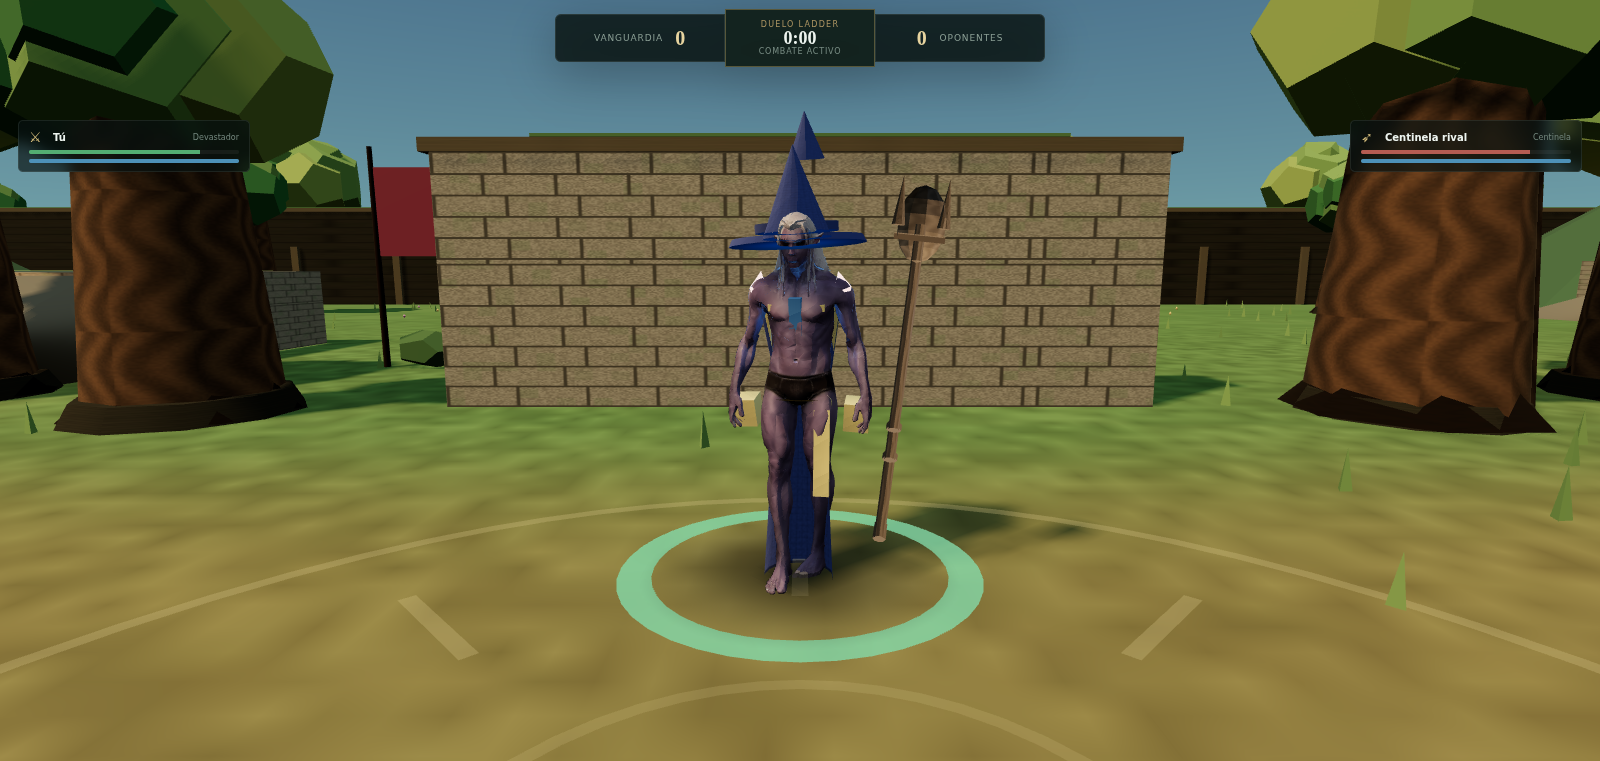
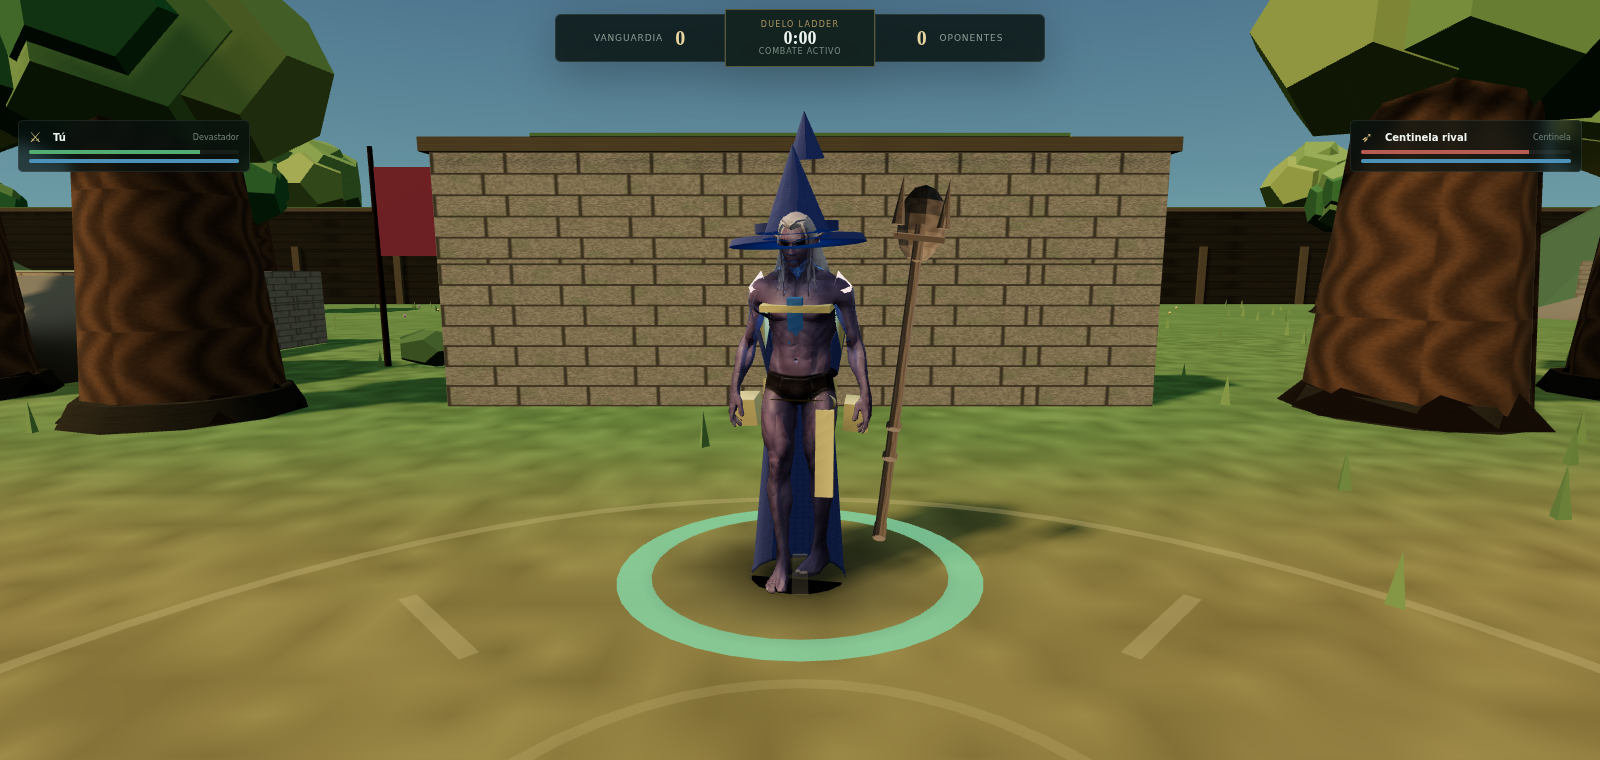
Las seis siluetas encajan en el cuerpo real: la caja lo dijo, la captura no
Cuatro defectos quedaban del pase anterior y los cuatro eran de ESCALA, no
de posición. `tools/scripts/gear-fit.json` compara la caja envolvente de
cada pieza contra la del cuerpo desnudo y los explicó solos:

  coraza Devastador   0.361 × 0.270  →  0.448 × 0.358
  coraza Guardián     0.399 × 0.302  →  0.495 × 0.400
  escudo torre        0.597 × 0.595  →  0.553 × 0.288
  túnica Arcanista    y desde −0.125 →  y desde −0.010,  0.373 → 0.484

El torso del Elfo Oscuro tiene 0.330 de fondo y las corazas venían cosidas
a un maniquí de 0.25: quedaban POR DENTRO del pecho y la piel las
atravesaba. El escudo, con 0.6 de fondo en una plancha plana, estaba
presentando una esquina en vez de la cara. Y la túnica barría por debajo
del suelo.

Ninguno se diagnostica mirando el fotograma: los dos primeros se ven como
«no lleva coraza» y el tercero como «el escudo está torcido». La caja dice
POR QUÉ, y por eso el paso siguiente que se había anotado era medir y no
seguir moviendo números.

`GEAR_FIT` corrige sólo los tres sockets cuyo volumen depende del tronco.
Cascos, botas, rodilleras, bolsas y trampas ya encajaban y no se tocan.

RESULTADO

Las seis clases vuelven a ser seis siluetas sobre el modelo real: el
Guardián como caballero acorazado con escudo torre y faldar, el Arcanista
como mago con sombrero de pico y túnica hasta el suelo, el Devastador con
coraza, hombreras angulosas y espadón.

Queda anotado un hueco de 2 cm de abdomen entre el cuerpo de la túnica y
[…]

diff --git a/js/render/three/threeCharacter.js b/js/render/three/threeCharacter.js
@@ -314,6 +314,25 @@ export function createCharacterFactory(Arena, scene, opts) {
     handR:     [0, -0.071, 0]
   };
 
+  /* AJUSTE AL VOLUMEN DEL CUERPO REAL
+   *
+   * El maniquí procedural tenía una caja torácica de 0.40 de ancho y 0.25 de
+   * fondo. El Elfo Oscuro tiene el torso en 0.45 × 0.33. Una coraza cosida a la
+   * medida del maniquí queda POR DENTRO del pecho del modelo: se ve la piel
+   * atravesándola y la pieza no aporta silueta.
+   *
+   * Medido con `tools/scripts/gear-fit.json`, que compara la caja de cada pieza
+   * contra la del cuerpo desnudo. El síntoma —«la coraza no cubre el pecho»— es
+   * de ESCALA, no de posición, y una caja lo dice y una captura no.
+   *
+   * Sólo se corrigen los sockets cuyo volumen depende del tronco. Cascos,
+   * botas, rodilleras y bolsas ya encajaban. */
+  var GEAR_FIT = {
+    chest:     [1.24, 1.00, 1.34],
+    chestPair: [1.10, 1.00, 1.14],
+    hips:      [1.14, 1.00, 1.20]
+  };
+
   var _gq = new THREE.Quaternion(), _ge = new THREE.Euler(), _gv = new THREE.Vector3();
 
   /**
@@ -520,7 +539,7 @@ export function createCharacterFactory(Arena, scene, opts) {
     };
     var self = this;
 
-    function pieza(meshName, boneName, anchor, pos, rot, scale, colorName, glow) {
+    function pieza(meshName, boneName, anchor, pos, rot, scale, colorName, glow, fit) {
       var geo = geometries[meshName];
       var bone = self.rigBones[boneName];
       if (!geo || !bone) return null;
@@ -533,8 +552,9 @@ export function createCharacterFactory(Arena, scene, opts) {
       m.name = 'gear:' + meshName;
       bone.add(m);
       var sc = scale === undefined ? 1 : scale;
-      if (typeof sc === 'number') m.scale.setScalar(sc);
-      else m.scale.set(sc[0], sc[1], sc[2]);
+      var f = fit || [1, 1, 1];
+      if (typeof sc === 'number') m.scale.set(sc * f[0], sc * f[1], sc * f[2]);
+      else m.scale.set(sc[0] * f[0], sc[1] * f[1], sc[2] * f[2]);
       self.gear.push(m);
       return m;
     }
@@ -555,7 +575,7 @@ export function createCharacterFactory(Arena, scene, opts) {
           var boneName = mapa.pair && mapa.boneL
             ? (side < 0 ? mapa.boneL : mapa.boneR) : mapa.bone;
           var m = pieza(it.mesh, boneName, anchor, it.pos || ZERO, it.rot || ZERO,
-            it.scale, it.color, it.glow);
+            it.scale, it.color, it.glow, GEAR_FIT[socket]);
           if (m) gearPlace(m, this.rigBindWorldQuat[boneName], anchor,
             it.pos || ZERO, it.rot || ZERO, side);
         }
@@ -564,8 +584,12 @@ export function createCharacterFactory(Arena, scene, opts) {
 
     /* La túnica cuelga de la cadera: es la pieza que más define a los dos
        casters y sin ella el mago va en ropa interior con un báculo. */
+    /* La túnica del Arcanista bajaba a −0.125: barría por debajo del suelo, y
+       encima medía 0.373 de ancho sobre unas caderas de 0.45, así que se leía
+       como un panel y no como una campana. Las dos cosas, medidas. */
     if (prof.robe) {
-      var r = pieza(prof.robe.mesh, 'Hips', GEAR_ANCHOR.hips, ZERO, ZERO, 1, prof.robe.color);
+      var r = pieza(prof.robe.mesh, 'Hips', GEAR_ANCHOR.hips, ZERO, ZERO, 1,
+        prof.robe.color, 0, [1.30, 0.90, 1.30]);
       if (r) gearPlace(r, this.rigBindWorldQuat.Hips, GEAR_ANCHOR.hips, [0, 0.06, 0], ZERO, 1);
       if (prof.robe.trim) {
         var rt = pieza(prof.robe.trim, 'Hips', GEAR_ANCHOR.hips, ZERO, ZERO, 1, 'trim');

diff --git a/js/data/classVisuals.js b/js/data/classVisuals.js
@@ -385,7 +385,7 @@ Arena.define('data/classVisuals', ['data/races', 'data/animConfig'], function (A
          quedaba casi horizontal: de frente se veía el canto, y un escudo torre
          visto de canto es un palo. Medido, no supuesto: la anchura de las
          bandas centrales pasa de 0.92 a 1.4. */
-      left: { kind: 'shield', mesh: 'towerShield', pos: [0.02, 0.16, 0.19], rot: [-0.38, 0, -0.07], color: 'teamDark' },
+      left: { kind: 'shield', mesh: 'towerShield', pos: [0.06, 0.14, 0.20], rot: [0.05, 0, -0.04], color: 'teamDark' },
       attach: {
         chest: [
           { mesh: 'bulwarkGorget', pos: [0, 0.292, 0], color: 'metal' },

diff --git a/docs/ANIMATION_INTEGRATION_V016.md b/docs/ANIMATION_INTEGRATION_V016.md
@@ -159,6 +159,29 @@ su hueso `Chest`. Medido con `tools/rig-report.js`, no supuesto. La tabla
 `GEAR_ANCHOR` absorbe esa diferencia para que los números de `classVisuals.js`
 sigan valiendo.
 
+## La caja lo dijo y la captura no
+
+`tools/scripts/gear-fit.json` compara la caja envolvente de **cada pieza de
+equipo** contra la del cuerpo desnudo. Los cuatro defectos que quedaban se
+explicaron solos, y los cuatro eran de **escala, no de posición**:
+
+| Pieza | Antes | Después | Qué pasaba |
+|---|---|---|---|
+| Coraza del Devastador | 0.361 × **0.270** | 0.448 × **0.358** | el torso real tiene 0.330 de fondo: la coraza quedaba POR DENTRO y la piel la atravesaba |
+| Coraza del Guardián | 0.399 × 0.302 | 0.495 × 0.400 | lo mismo |
+| Escudo torre | 0.597 × **0.595** | 0.553 × **0.288** | 0.6 de fondo en una plancha plana = estaba presentando una ESQUINA, no la cara |
+| Túnica del Arcanista | y desde **−0.125**, 0.373 ancho | y desde **−0.010**, 0.484 | barría por debajo del suelo y era un panel, no una campana |
+
+El maniquí procedural tenía la caja torácica en 0.40 × 0.25 y el Elfo Oscuro la
+tiene en 0.45 × 0.33. Una coraza cosida a la medida del maniquí **desaparece
+dentro** del modelo real. `GEAR_FIT` corrige sólo los tres sockets cuyo volumen
+depende del tronco; cascos, botas, rodilleras y bolsas ya encajaban y no se
+tocan.
+
+Ninguno de los cuatro se habría diagnosticado mirando la captura: los dos
+primeros se ven como «no lleva coraza» y el tercero como «el escudo está
+torcido». La caja dice *por qué*.
+
 ## Estado honesto
 
 | Socket | Estado |
@@ -167,14 +190,15 @@ sigan valiendo.
 | `hips` — cinturones, faldar, bolsas, trampas, talismanes | **correcto** |
 | `thigh` / `knee` / `ankle` — quijotes, rodilleras, botas | **correcto** |
 | `handL` / `handR` — armas de clase, escudo torre, orbe | **correcto de sitio**, falta afinar el ángulo de guardia del escudo |
-| `chest` — petos y corazas | **incompleto**: la coraza no cubre el pecho |
-| `robe` — túnicas de los dos casters | **incompleto**: se lee como un panel estrecho, no como campana |
+| `chest` — petos, corazas y cuerpos de túnica | **correcto** tras el ajuste de volumen |
+| `robe` — túnicas de los dos casters | **correcto**: dobladillo sobre el suelo y campana real |
 
-El Guardián ya se lee como un caballero acorazado con escudo torre y el
-Arcanista como un mago con sombrero y báculo. El Devastador y los dos casters
-necesitan otra vuelta de medición sobre el socket de pecho.
+Las seis clases vuelven a ser seis siluetas sobre el modelo real. El Guardián se
+lee como un caballero acorazado con escudo torre y faldar; el Arcanista como un
+mago con sombrero de pico, túnica hasta el suelo y báculo; el Devastador con
+coraza, hombreras angulosas y espadón.
 
-**Siguiente paso concreto:** una sonda que compare la caja envolvente de cada
-pieza de equipo contra la del hueso que la sujeta. Los dos sockets que fallan
-fallan por escala, no por posición, y eso es exactamente lo que una caja mide y
-una captura no.
+**Lo que queda, menor y anotado:** entre el cuerpo de la túnica (termina en
+1.022) y el fajín del Arcanista asoma una franja de abdomen. Es un hueco de
+2 cm; se cierra bajando el cuerpo de la túnica o subiendo el fajín, y conviene
+hacerlo con el mismo comando en vez de a ojo.
